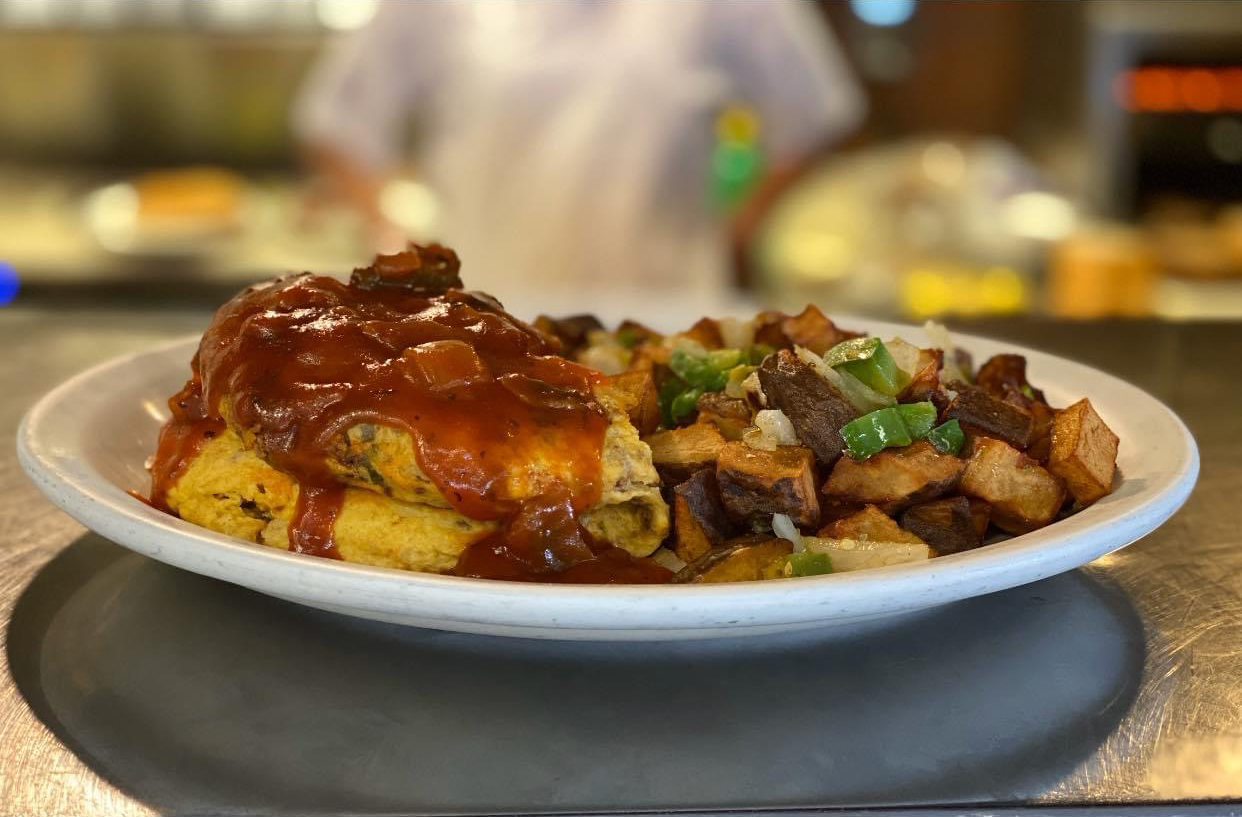
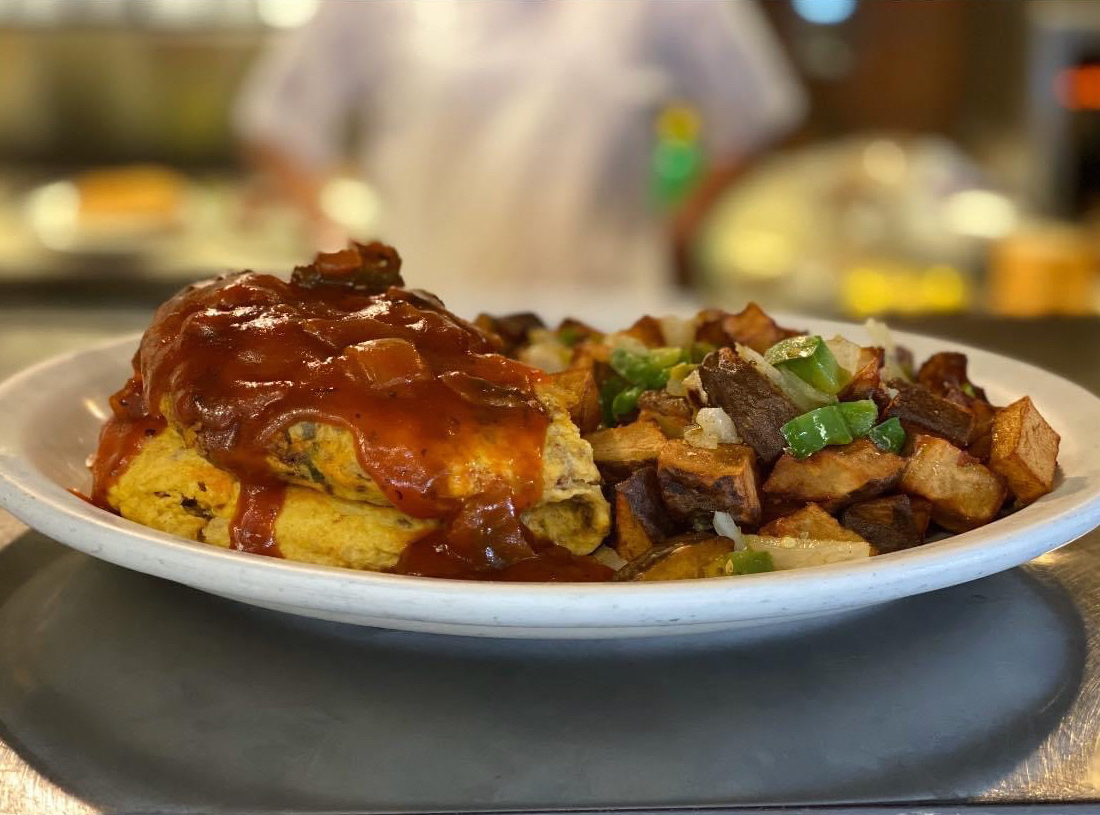
updated the content to max-width of 1200px so the carousel slider images do not warp

diff --git a/index.html b/index.html
@@ -19,6 +19,7 @@
         <link rel="shortcut icon" type="image/png" href="assets/img/favicon.png"/>
     </head>
     <body id="page-top">
+      <div id="body-container">
         <!-- Navigation-->
         <nav class="navbar navbar-expand-lg bottom-border bg-white text-uppercase fixed-top" id="mainNav">
             <div class="container">
@@ -42,26 +43,26 @@
         <header class="masthead text-center mt-lg-n5">
            <!-- style="background:white url('assets/img/food/avo-omelet.jpeg') center/cover no-repeat scroll;" -->
            <!-- IMAGE SLIDER -->
-            <div id="carousel-container" class="px-0">
+            <div id="carousel-container" class="px-0 px-2-xl">
               <div id="hero-carousel" class="carousel slide" data-ride="carousel">
                   <div class="carousel-inner bg-info" role="listbox">
                       <div class="carousel-item active" id="slide1">
-                          <div class="d-flex align-items-center justify-content-center min-vw-100">
+                          <div class="d-flex align-items-center justify-content-center">
                               <img src="assets/img/food/avo-omelet.jpeg" alt="Avocado Topped Omelet"/>
                           </div>
                       </div>
                       <div class="carousel-item" id="slide2">
-                          <div class="d-flex align-items-center justify-content-center min-vw-100">
+                          <div class="d-flex align-items-center justify-content-center">
                               <img src="assets/img/food/salsa-omelet.JPG" alt="Salsa Topped Omelet"/>
                           </div>
                       </div>
                       <div class="carousel-item" id="slide3">
-                          <div class="d-flex align-items-center justify-content-center min-vw-100">
+                          <div class="d-flex align-items-center justify-content-center">
                               <img src="assets/img/food/friedchicken-waffle.JPG" alt="Fried Chicken and Waffles"/>
                           </div>
                       </div>
                       <!-- <div class="carousel-item">
-                          <div class="d-flex align-items-center justify-content-center min-vw-100">
+                          <div class="d-flex align-items-center justify-content-center">
                               <img src="assets/img/food/medit-omelet.jpg" alt="Mediterranean Omelet"/>
                           </div>
                       </div> -->
@@ -78,9 +79,8 @@
               </a>
             </div>
 
-          </div>
 
-          <div class="container d-flex align-items-center flex-column">
+          <div class="container d-flex align-items-center flex-column hero-content">
 
             <!-- ALERT DIV -->
               <div class="border-90-secondary p-3 mb-3 bg-white">
@@ -122,7 +122,7 @@
           </section>
 
         <!-- About Section-->
-        <section class="page-section mb-0" id="about">
+        <section class="page-section mb-0 bg-white" id="about">
             <div class="container">
                 <!-- About Section Heading-->
                 <h2 class="page-section-heading text-center text-uppercase text-secondary mb-4">About</h2>
@@ -353,5 +353,6 @@
         <!-- Custom JS-->
         <script src="assets/js/lightbox-modal.js"></script>
         <script src="assets/js/custom.js"></script>
+      </div>
     </body>
 </html>

diff --git a/assets/css/styles.css b/assets/css/styles.css
@@ -5827,8 +5827,8 @@ a.close.disabled {
   float: left;
   width: 100%;
   margin-right: -100%;
-  -webkit-backface-visibility: hidden;
-          backface-visibility: hidden;
+  -webkit-backface-visibility: hidden !important;
+          backface-visibility: hidden !important;
   transition: transform 0.6s ease-in-out;
 }
 
@@ -6129,13 +6129,13 @@ button.bg-success:focus {
 }
 
 .bg-info {
-  background-color: #17a2b8 !important;
+  background-color: #fff !important;
 }
 
 a.bg-info:hover, a.bg-info:focus,
 button.bg-info:hover,
 button.bg-info:focus {
-  background-color: #117a8b !important;
+  background-color: #fff !important;
 }
 
 .bg-warning {
@@ -10174,17 +10174,16 @@ h3 {
 }
 #hero-carousel {
   position: absolute;
-  left: 0px;
+  /*left: 0px;*/
   top: 0px;
   z-index:-500;
   max-height:700px;
   overflow:hidden;
   max-width:100vw !important;
 }
-/*.carousel-item img {
-  min-width:100%;
-  height:auto;
-}*/
+.carousel-item img {
+  margin:0 auto;
+}
 /*#slide1 div {
   height:100%;
   width:100%;*/
@@ -10210,7 +10209,7 @@ h3 {
   font-size: 1rem;
 }
 .masthead .masthead-avatar {
-  height: 50vw;
+  max-height: 350px;
   transition-property:ease-in-out;
   transition-duration: 2s;
 }
@@ -10218,25 +10217,42 @@ h3 {
   position:absolute;
   top:650px;
   margin:0 auto;
+}
+.circle-food-row {
   min-width:100vw;
 }
-/*.circle-food-row div {
-  background-color:#FFF;
-}*/
 .carousel-item {
   background-color:#FFF;
 }
 
 /* HERO CAROUSEL MEDIA QUERIES */
-@media (min-width: 1500px) {
-  .carousel-item img {
-    margin-top:-300px;
-  }
-}
 @media (min-width: 1200px) {
+  #body-container,
+  .navbar,
+  .masthead,
+  .page-section,
+  .copyright { 
+    max-width:1200px !important;
+    margin:0 auto !important;
+  }
+  .container,
+  #carousel-container,
+  #hero-carousel,
+  .carousel-item img {
+    max-width:1200px !important;
+    margin:0 auto;
+  }
+  .carousel-item {
+    max-width:1200px !important;
+  }
+  .hero-content {
+    margin-top:-60px;
+  }
   .carousel-item img {
     margin-top:-60px;
-    min-width:100vw;
+    min-width:1200px;
+    height:auto;
+    float:left;
   }
   .masthead .masthead-avatar {
     height: 350px;
@@ -10250,6 +10266,8 @@ h3 {
   .circle-food-row {
     align-items: center;
     justify-content: center;
+    min-width:0;
+    max-width:1200px;
   }
 }
 @media (min-width: 992px) and (max-width: 1199px) {
